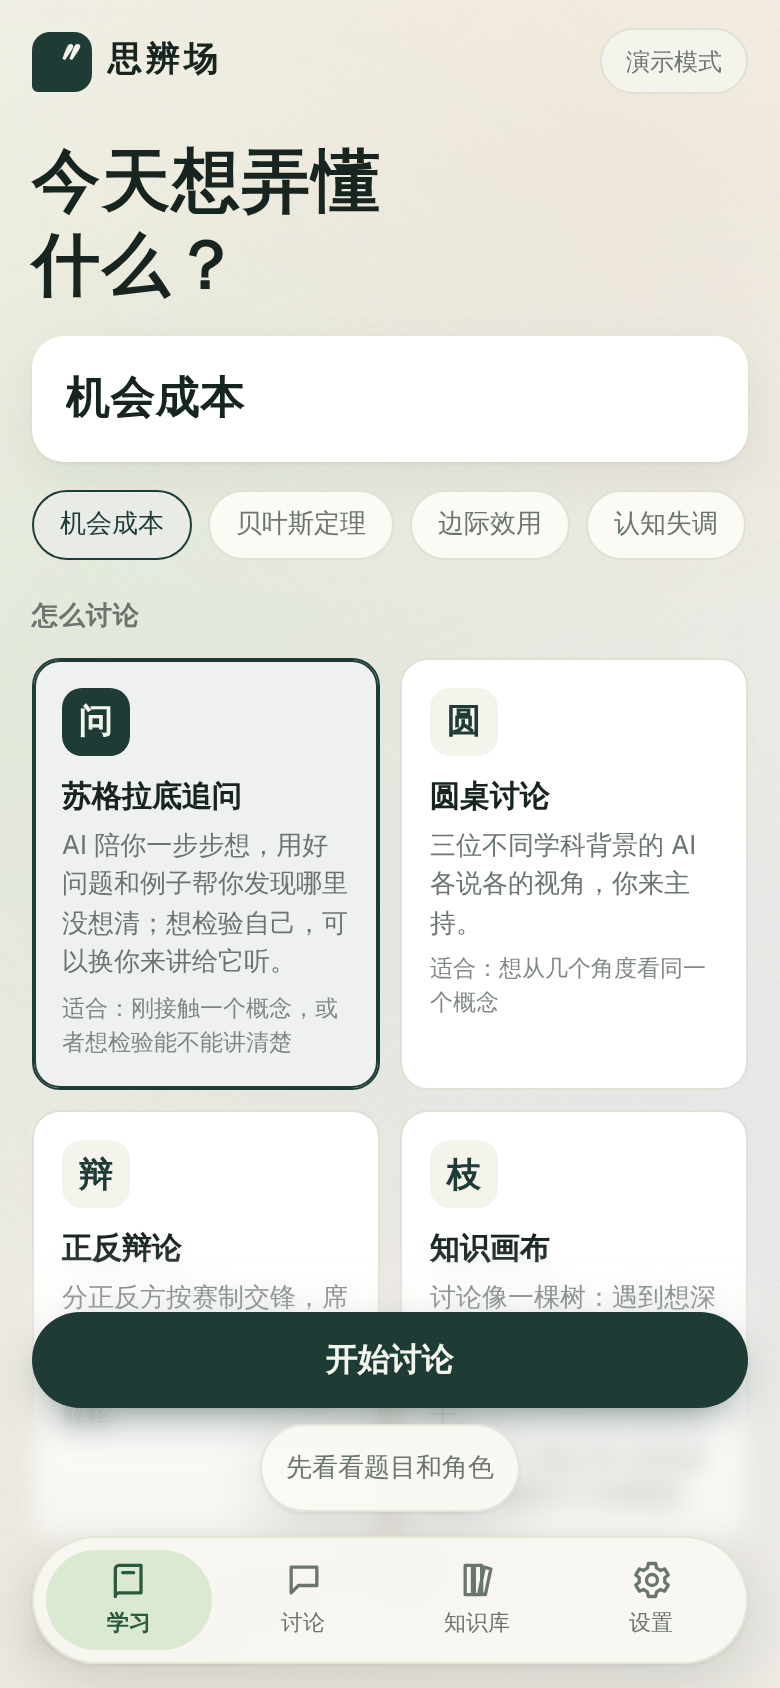
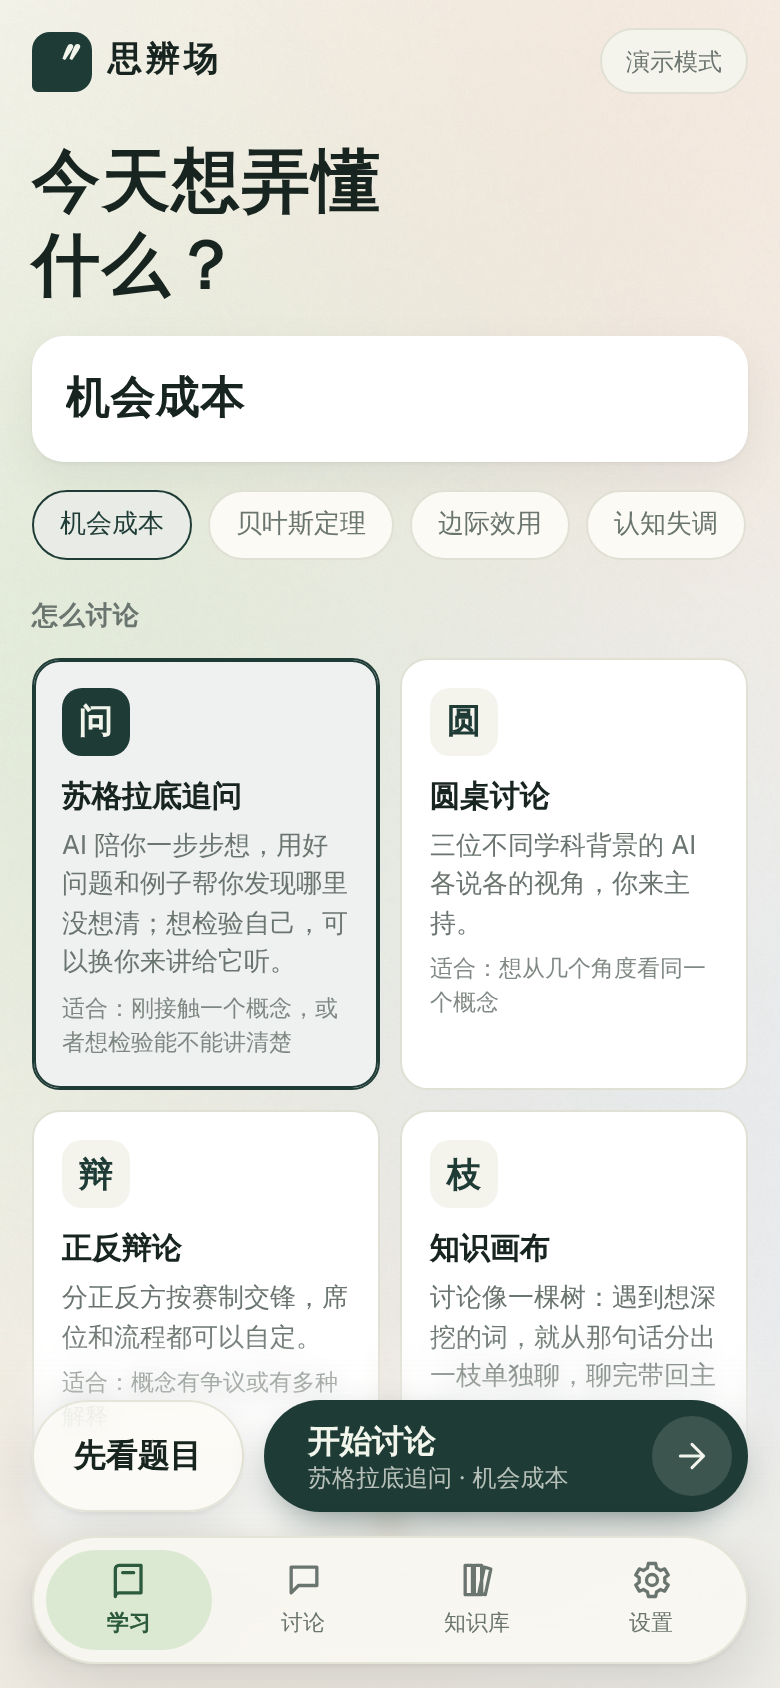
feat: 网页版学习页的开始按钮和原生版一致 (#125)
原生版在 #110 改了学习页的开始按钮，网页版还是满宽的大按钮加一行小链接，两边
不一致。网页版照原生版改：没写概念时不摆一条点不了的灰按钮；写下概念后从底部
升起一行，左边是“先看题目”，右边主按钮写明“开始讨论”和“讨论方式 · 概念”，
带箭头。减少动画时不升起。

顺手删掉不再使用的 .quiet-link 样式；文档里的按钮名和学习页截图一起更新。

Closes #120

Claude-Session: https://claude.ai/code/session_01RzFBQZp3Xs7T4R5Pprro5u

Changed region(s): [[0.0308, 0.7701, 0.9846, 0.9242]]

diff --git a/src/screens/Learn.tsx b/src/screens/Learn.tsx
@@ -22,6 +22,8 @@ export function Learn() {
   const due = library.filter(c => c.due <= Date.now());
   const unfinished = session && !session.finished;
   const busy = !!ui.busy;
+  const canStart = !busy && !!config.concept.trim() && (!ui.context || !!ui.context.text.trim());
+  const startLabel = ui.context ? '按这个经过开始' : '开始讨论';
   return (
     <div className="screen learn">
       <header className="learn-head">
@@ -180,22 +182,40 @@ export function Learn() {
       <div className="dock">
         <ErrorBanner />
         <BusyStrip />
-        {/* 一句话开始：写下概念就进讨论；想先看看题目、要点和角色（或者邀请同学），走准备页 */}
-        <button
-          className="primary block"
-          disabled={busy || !config.concept.trim() || (!!ui.context && !ui.context.text.trim())}
-          onClick={() => prepare(null, undefined, 'start')}
-        >
-          {ui.context ? '按这个经过开始讨论' : '开始讨论'}
-        </button>
-        <button
-          className="link quiet-link"
-          disabled={busy || !config.concept.trim() || (!!ui.context && !ui.context.text.trim())}
-          onClick={() => prepare()}
-        >
-          先看看题目和角色
-          {config.mode === 'roundtable' || config.mode === 'debate' ? '，或邀请同学' : ''}
-        </button>
+        {/* 写下概念后，开始按钮才从底部升起：没写时不摆一条点不了的灰按钮。
+            左边先看看题目、要点和角色（或者邀请同学），右边一句话开始，写明用哪种方式讨论哪个概念 */}
+        {config.concept.trim() && (
+          <div className="start-bar">
+            <button
+              className="secondary"
+              disabled={!canStart}
+              title={
+                config.mode === 'roundtable' || config.mode === 'debate'
+                  ? '先看看题目和角色，或邀请同学'
+                  : '先看看题目、要点和角色'
+              }
+              onClick={() => prepare()}
+            >
+              先看题目
+            </button>
+            <button
+              className="primary start"
+              disabled={!canStart}
+              aria-label={`${startLabel}：${MODES[config.mode].name} · ${config.concept.trim()}`}
+              onClick={() => prepare(null, undefined, 'start')}
+            >
+              <span className="start-text">
+                <b>{startLabel}</b>
+                <small>
+                  {MODES[config.mode].name} · {config.concept.trim()}
+                </small>
+              </span>
+              <span className="start-arrow" aria-hidden="true">
+                <Icon name="send" size={20} />
+              </span>
+            </button>
+          </div>
+        )}
       </div>
     </div>
   );

diff --git a/src/styles.css b/src/styles.css
@@ -434,7 +434,6 @@ code {
   box-shadow: 0 8px 22px -8px color-mix(in srgb, var(--brand) 70%, transparent);
 }
 .dock .secondary,
-.dock .quiet-link,
 .dock .busy-strip,
 .composer .tool,
 .composer .turn-banner,
@@ -450,10 +449,6 @@ code {
 /* 工具条能横向滚动，投影会被裁成方框：工具只用磨砂底和细边 */
 .composer .tool {
   box-shadow: none;
-}
-.dock .quiet-link {
-  border-radius: 22px;
-  padding-inline: 18px;
 }
 .dock .busy-strip {
   border-radius: 14px;
@@ -519,14 +514,6 @@ code {
   font-size: 13px;
   font-weight: 600;
   padding: 4px 6px;
-}
-/* 主按钮下面的次要选择：不抢主按钮的风头，但要好点 */
-.dock .quiet-link {
-  align-self: center;
-  min-height: 44px;
-  padding-inline: 12px;
-  color: var(--muted);
-  font-weight: 500;
 }
 .icon-btn {
   display: grid;
@@ -701,6 +688,65 @@ select:focus {
 .status.warn {
   background: var(--warn-soft);
   color: var(--warn);
+}
+/* 学习页的开始：写下概念后从底部升起。左边“先看题目”，右边主按钮写明讨论方式和概念，带一个箭头 */
+.start-bar {
+  display: flex;
+  align-items: center;
+  gap: 10px;
+  animation: start-rise 0.42s cubic-bezier(0.22, 1, 0.36, 1) both;
+}
+@keyframes start-rise {
+  from {
+    transform: translateY(70%);
+    opacity: 0;
+  }
+}
+.start-bar .secondary {
+  flex: none;
+  min-height: 56px;
+  padding: 0 20px;
+  border-radius: 28px;
+}
+.start-bar .start {
+  flex: 1;
+  min-width: 0;
+  min-height: 56px;
+  display: flex;
+  align-items: center;
+  gap: 8px;
+  padding: 0 8px 0 22px;
+  border-radius: 28px;
+  text-align: left;
+}
+.start-text {
+  flex: 1;
+  min-width: 0;
+  display: flex;
+  flex-direction: column;
+  line-height: 1.3;
+}
+.start-text small {
+  font-size: 12px;
+  font-weight: 400;
+  opacity: 0.72;
+  overflow: hidden;
+  text-overflow: ellipsis;
+  white-space: nowrap;
+}
+.start-arrow {
+  flex: none;
+  width: 40px;
+  height: 40px;
+  border-radius: 50%;
+  display: grid;
+  place-items: center;
+  background: color-mix(in srgb, var(--brand-ink) 14%, transparent);
+}
+@media (prefers-reduced-motion: reduce) {
+  .start-bar {
+    animation: none;
+  }
 }
 /* 知识库搜索：内容层里的输入框，和其它输入框一样的底色和描边 */
 .search-box {
@@ -3216,7 +3262,7 @@ select:focus {
 .session .topbar-title p {
   view-transition-name: mode;
 }
-.learn .dock .primary,
+.learn .dock .start,
 .prepare .dock .primary,
 .session .composer {
   view-transition-name: cta;
@@ -3675,9 +3721,6 @@ body::after {
   }
   .learn .dock::before {
     display: none;
-  }
-  .learn .dock .quiet-link {
-    align-self: flex-start;
   }
   .learn .dock > * {
     width: calc((100% - 40px) * 5 / 11);

diff --git a/docs/guide/learning-flow.md b/docs/guide/learning-flow.md
@@ -6,13 +6,13 @@
 
 在 **学习** 页写下一个概念，选一种[讨论方式](./modes)，点 **开始讨论**（或者直接按回车）。概念越具体越好：“贝叶斯定理”比“概率论”更适合一次讨论。
 
-想先看看 AI 出的题目、要点和角色再开始，或者要邀请同学一起讨论，点按钮下面的 **先看看题目和角色**（安卓 App 里是开始按钮左边的 **先看题目**），会先停在准备页。
+想先看看 AI 出的题目、要点和角色再开始，或者要邀请同学一起讨论，点开始按钮左边的 **先看题目**，会先停在准备页。开始按钮要写下概念后才出现，上面的小字写着会用哪种方式讨论哪个概念。
 
 <img class="shot" src="/screenshots/learn.png" alt="学习首页">
 
 ## 2. 准备
 
-点了“开始讨论”，下面这些在后台准备好就直接进讨论；点了“先看看题目和角色”，会停在准备页给你改。
+点了“开始讨论”，下面这些在后台准备好就直接进讨论；点了“先看题目”，会停在准备页给你改。
 
 如果你写的是一件具体的事（比如某个群里的一场争论），而 AI 不了解经过，它会先请你用一两句话交代背景，再出题。之后的讨论、提示和复盘都以你写的经过为准，AI 不会自己编细节；准备页上还可以改。
 

diff --git a/docs/guide/getting-started.md b/docs/guide/getting-started.md
@@ -44,4 +44,4 @@
 ## 第一次讨论
 
 1. 在 **学习** 页写下一个概念，选择一种讨论方式。不确定选哪个就用“苏格拉底追问”。
-2. 点 **开始讨论**。AI 准备好题目和要点，就直接开始聊。想先看看、改改题目和角色，点下面的 **先看看题目和角色**。接下来的事，见[一次学习的流程](./learning-flow)。
+2. 点 **开始讨论**。AI 准备好题目和要点，就直接开始聊。想先看看、改改题目和角色，点左边的 **先看题目**。接下来的事，见[一次学习的流程](./learning-flow)。

diff --git a/docs/guide/multiplayer.md b/docs/guide/multiplayer.md
@@ -16,7 +16,7 @@
 
 ## 房主：创建房间
 
-1. 在 **学习** 页写下概念，选择 **圆桌讨论** 或 **正反辩论**，点下面的 **先看看题目和角色，或邀请同学**。
+1. 在 **学习** 页写下概念，选择 **圆桌讨论** 或 **正反辩论**，点开始按钮左边的 **先看题目**。
 2. 在准备页检查讨论题和要点，点底部的 **邀请同学一起讨论**。
 3. 写下你在讨论里显示的名字，点 **创建房间**。
 4. 复制邀请链接发给同学。之后也可以在讨论页顶部点 **邀请** 再次打开。
